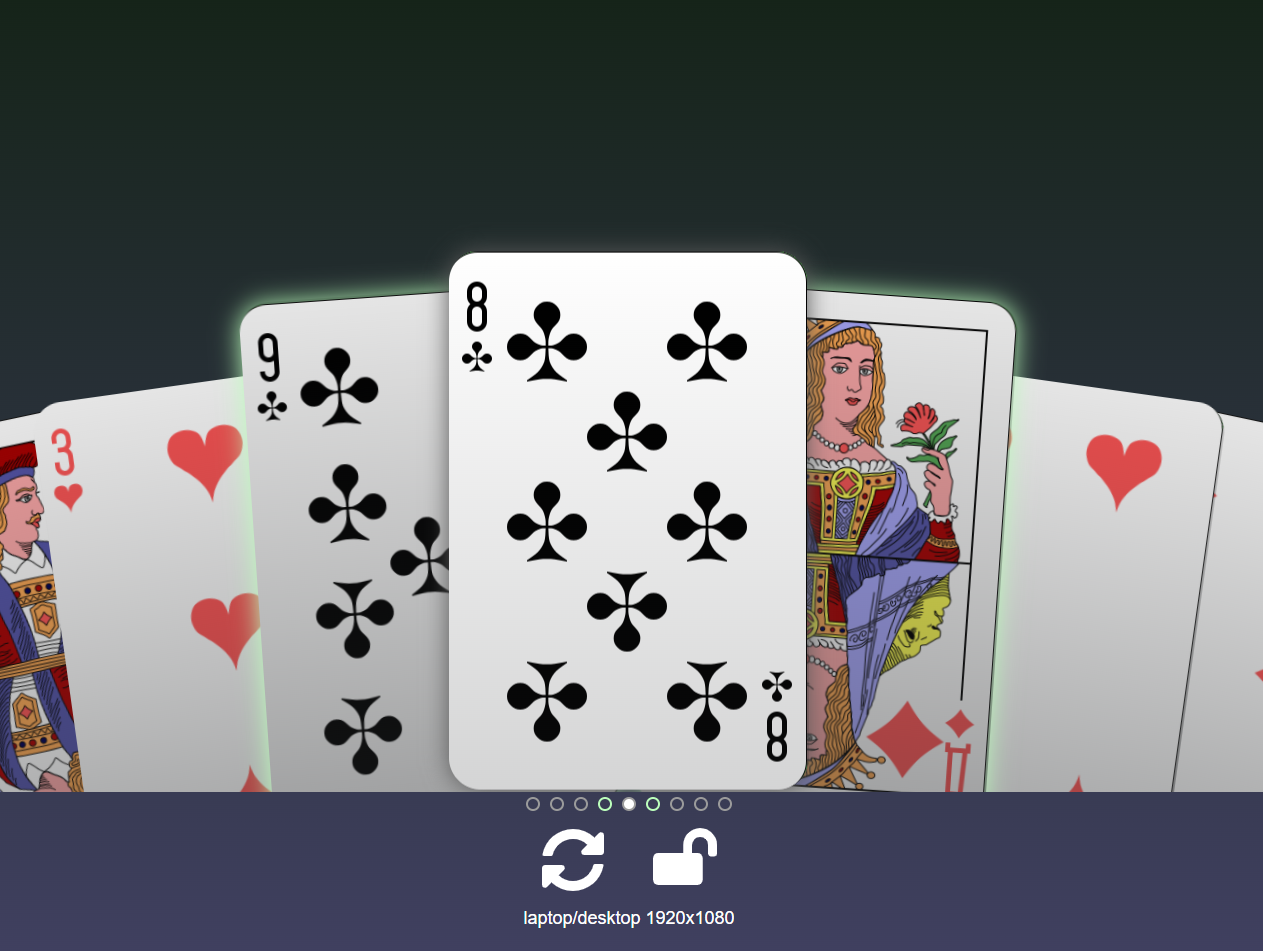
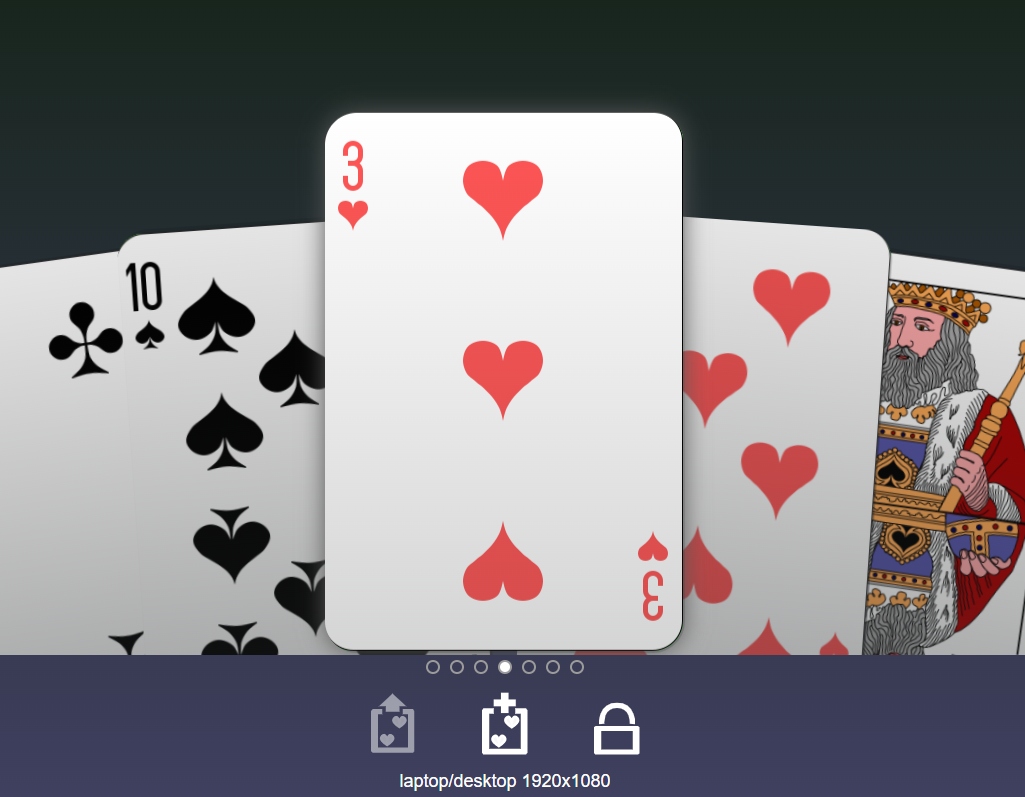
first selected card will now automatically deselect

diff --git a/src/card-game/hand-component.js b/src/card-game/hand-component.js
@@ -26,6 +26,17 @@ const SWIPE_DIRECTIONS = {
 // number of pixels of movement allowed before a tap becomes a swipe
 const TAP_THRESHOLD = 10;
 
+/**
+ * What happens when the user selects a card when the max cards have been reached
+ */
+export const MAX_SELECTION_REACHED_POLICY = {
+  /** prevent the user from selecting more cards (default) */
+  BLOCK: 'block',
+
+  /** de-select the card selected first, then select the current card */
+  CYCLE_OLDEST: 'cycle-oldest'
+};
+
 export class HandComponent extends React.Component {
   /**
    *
@@ -150,7 +161,7 @@ export class HandComponent extends React.Component {
                 if (this.getCard(index).state.isSelected) {
                   this.playSelectedCards();
                 } else {
-                  this.selectItem(index, true);
+                  this.toggleSelected(index);
                 }
               }
             }
@@ -197,11 +208,18 @@ export class HandComponent extends React.Component {
             evt.preventDefault();
             break;
           case KeyCode.KEY_UP:
-            this.selectActiveItem(true);
+            
+          if (!this.getActiveCard().state.isSelected) {
+              this.toggleActiveItemSelected();
+            }
+
             evt.preventDefault();
             break;
           case KeyCode.KEY_DOWN:
-            this.selectActiveItem(false);
+            if (this.getActiveCard().state.isSelected) {
+              this.selectActiveItem(false);
+            }
+            
             evt.preventDefault();
             break;  
           case KeyCode.KEY_DELETE:
@@ -330,8 +348,9 @@ export class HandComponent extends React.Component {
   canSelectMoreCards() {
     // any cards to select ?
     return this.state.cards.length > 0
-      // is there is a limit ?
-      && (this.props.maxSelectedCards < 0 
+      
+      && ( //if negative there is no limit  
+           this.props.maxSelectedCards < 0 
           // can still select more cards ?
           || this.countSelectedCards() < this.props.maxSelectedCards);
   }
@@ -395,14 +414,25 @@ export class HandComponent extends React.Component {
   }
 
   toggleActiveItemSelected() {   
-    if (this.state.activeIndex < this.state.cards.length) {
-      this.selectActiveItem(!this.getActiveCard().state.isSelected);
-    }
+      this.toggleSelected(this.state.activeIndex);
   }
 
   toggleSelected(idx) {   
     if (this.state.activeIndex < this.state.cards.length) {
-      this.selectItem(idx, !this.getCard(idx).state.isSelected);
+      const isSelected = this.getCard(idx).state.isSelected;
+      if (isSelected || this.canSelectMoreCards()) {
+        this.selectItem(idx, !isSelected);
+        // can we deselect the oldest ?
+      } else if ( this.props.maxCardsReachedPolicy === MAX_SELECTION_REACHED_POLICY.CYCLE_OLDEST) {
+        const firstSelectedCard = this.state.cards.filter(card => card.ref.current.state.isSelected).reduce( 
+            (card, prev) => prev.ref.current.state.timeSelected < card.ref.current.state.timeSelected ? prev : card);
+         
+        // deselect the oldest/first selected card
+        this.selectItem(firstSelectedCard.ref.current.state.index, false);
+
+        // select the current
+        this.selectItem(idx, true);    
+      }
     }
   }
 

diff --git a/src/app.js b/src/app.js
@@ -7,7 +7,7 @@
 import { MediaConfiguration} from "./framework/media-configuration.js";
 import { allocAnimations } from "./framework/animation-utilities.js";
 
-import { HandComponent } from "./card-game/hand-component.js";
+import { HandComponent, MAX_SELECTION_REACHED_POLICY } from "./card-game/hand-component.js";
 import { DEFAULT_DECK, pickRandomCards } from "./card-game/deck.js";
 
 
@@ -19,10 +19,12 @@ console.log("starting card component");
 const element = document.querySelector('#card-container');
 const maxCards = element.attributes?.maxCards?.value ? parseInt(element.attributes.maxCards.value) : 7;
 const hand = pickRandomCards(DEFAULT_DECK, maxCards);
+const maxCardsReachedPolicy = element.attributes?.maxCardsReachedPolicy?.value ?? MAX_SELECTION_REACHED_POLICY.BLOCK;
 
 const properties = {
     hand,
     maxCards,
+    maxCardsReachedPolicy,
     deck: DEFAULT_DECK,
     initialIndex: Math.floor(hand.length / 2),   
     isLocked: element.attributes?.isLocked?.value === "true" ?? false,

diff --git a/src/card-game/card-component.js b/src/card-game/card-component.js
@@ -26,6 +26,7 @@ export class CardComponent extends React.Component {
         this.state = {
           index: props.index,
           isSelected: props.isSelected,
+          timeSelected: Date.now(),
           context: this.props.context,
           eventHandler: this.props.eventHandler
         };       
@@ -50,6 +51,7 @@ export class CardComponent extends React.Component {
     setSelected(isSelected) {
         this.setState({
             ...this.state,
+            timeSelected: Date.now(),
             isSelected
         });
     }

diff --git a/src/platform-configurations.js b/src/platform-configurations.js
@@ -9,8 +9,8 @@ import { PlatformConfiguration, ORIENTATION_NAMES } from "/src/framework/media-c
 export const PLATFORM_CONFIGURATIONS = [
     new PlatformConfiguration("phone-landscape", ORIENTATION_NAMES.LANDSCAPE, 900, 480, {
 
-        // Inner takes up 80% of the client height
-        innerHeight: 0.8,
+        // Inner takes up % of the client height
+        innerHeight: 0.78,
 
         baseScale: 0.35,
         dynamicScale: 0.25,

diff --git a/index.html b/index.html
@@ -28,7 +28,7 @@
   </head>
   <body>  
     
-      <div id="card-container" class="app-container" maxCards="9" maxSelectedCards="9" isLocked="false"></div>   
+      <div id="card-container" class="app-container" maxCards="9" maxSelectedCards="3" isLocked="false" maxCardsReachedPolicy="cycle-oldest"></div>   
       
       <script src="./src/app.js" type="module"></script>
   

diff --git a/README.md b/README.md
@@ -45,16 +45,14 @@ The design (such as it is) of the element consists of the following:
 
 This project was created while learning React and is currently very much under development. Clean-up and refactoring are very much in order. Outstanding features (in no particular order):
 
-* Add option When selecting a card and the max is reached unselect the oldest selected card
+* Add mouse support.
 * Show warning if max selection is reached.
 * Create class for config.values
 * Refactor & add documentation.
 * Add jsx (or htm) variation.
-* Add mouse support.
 * Try some optimization(s) for less powerful devices (aka phones).
 * Deal truly random cards or one from a deck of 52 cards.
 * Dynamic spacing and rotation as the number of cards increase (see hearthstone)
-* Landscape orientation on the phone needs a whole different approach/layout (some minor tweaks) to address the layout issues of buttons falling off the screen at the bottom.
 * Adjust animations on mobile device
 * // todo: fix this dependency 
     import { ANIMATIONS } from "../animations.js";
